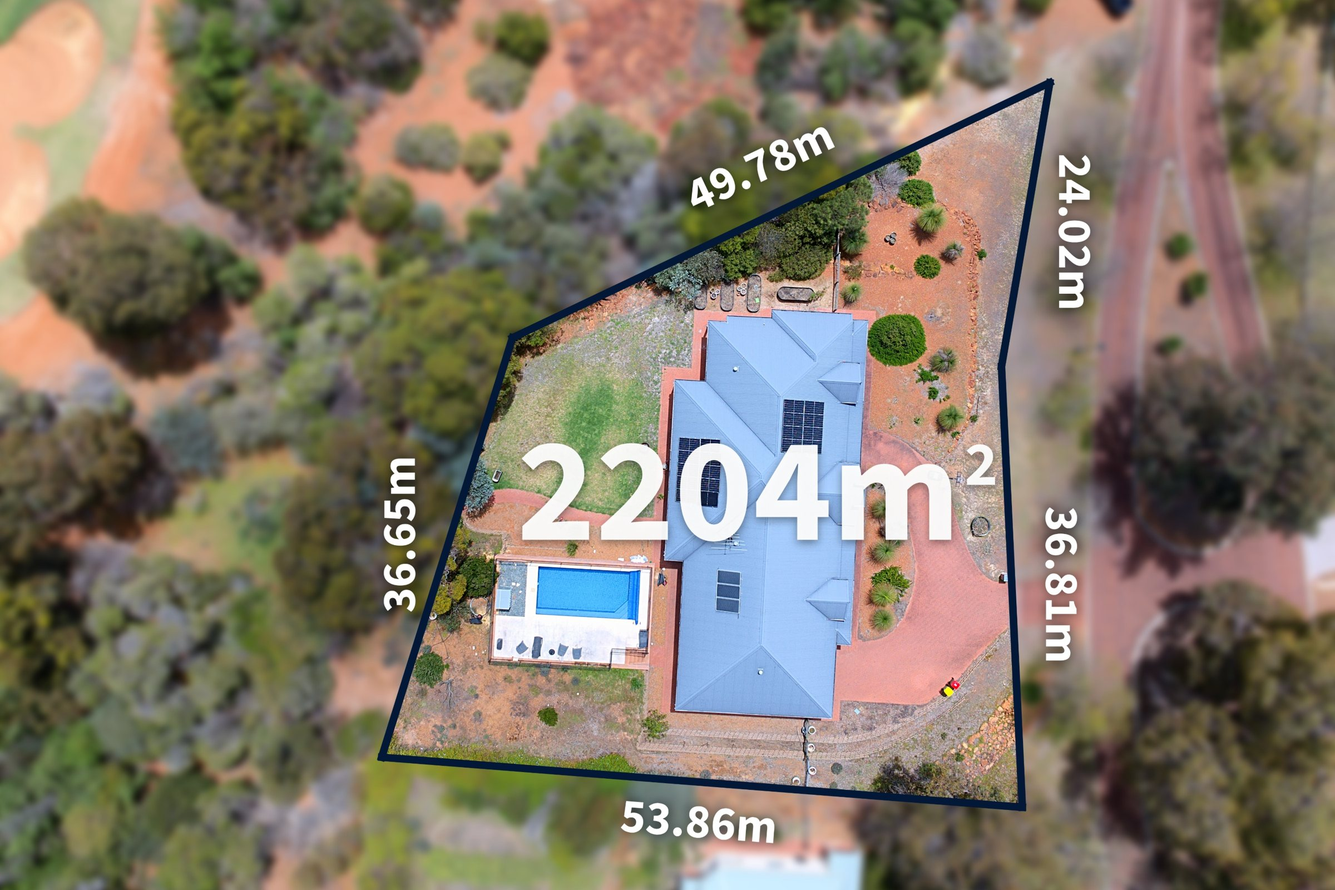
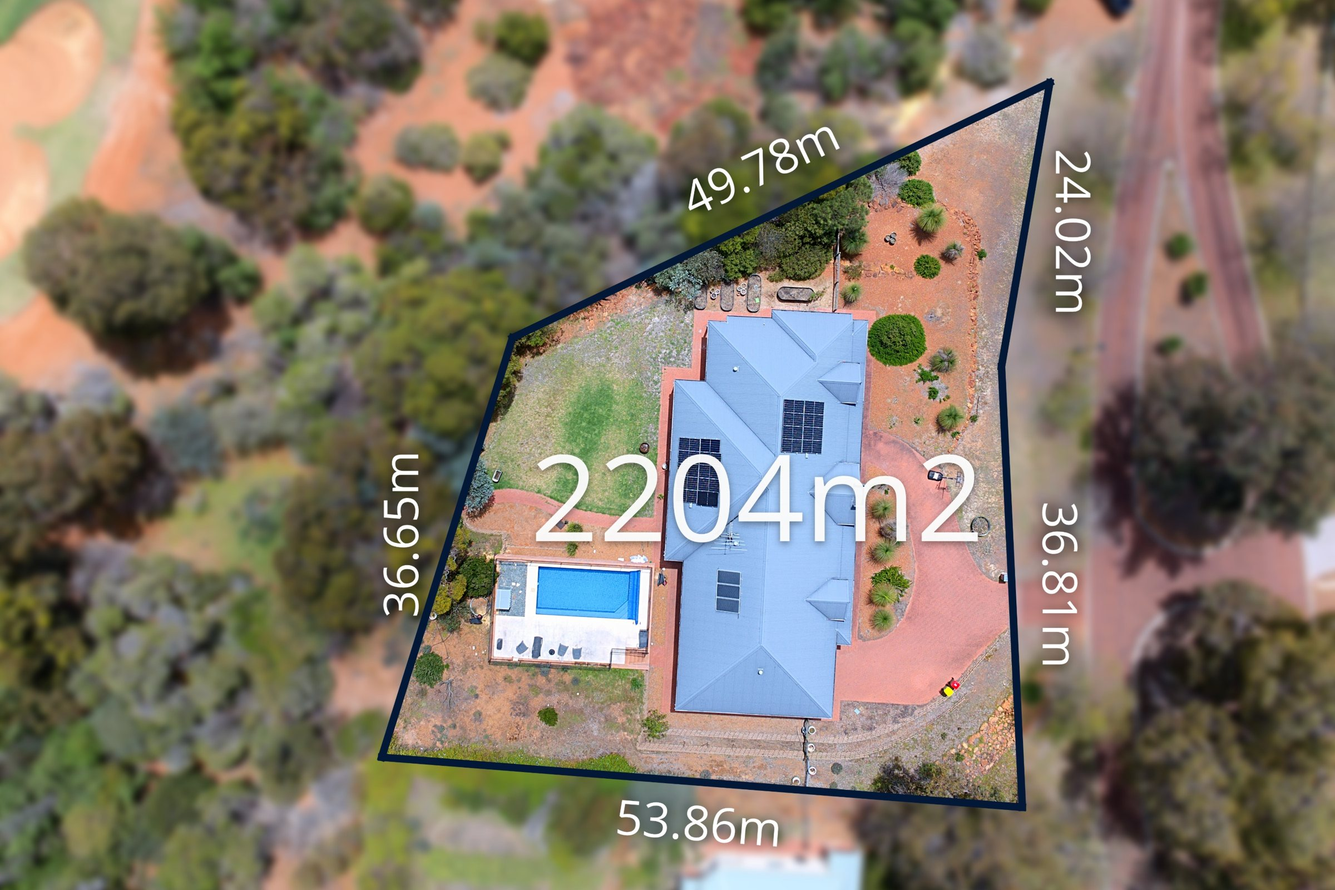
Aerials: lot size matches 560m2 reference (regular Open Sans, full-size 2)
Claude-Session: https://claude.ai/code/session_01A5qGg2LnJXxgSHoMQFvEEG

diff --git a/pins/index.html b/pins/index.html
@@ -8,7 +8,7 @@
 <meta name="claude:viewport-fit-sides" content="cover">
 <link rel="preconnect" href="https://fonts.googleapis.com">
 <link rel="preconnect" href="https://fonts.gstatic.com" crossorigin>
-<link rel="stylesheet" href="https://fonts.googleapis.com/css2?family=Archivo:wght@500;700;800&family=IBM+Plex+Mono:wght@500&family=IBM+Plex+Sans:wght@400;500;600&family=Source+Sans+3:wght@300;400;700&display=swap">
+<link rel="stylesheet" href="https://fonts.googleapis.com/css2?family=Archivo:wght@500;700;800&family=IBM+Plex+Mono:wght@500&family=IBM+Plex+Sans:wght@400;500;600&family=Open+Sans:wght@400&family=Source+Sans+3:wght@300;400;700&display=swap">
 <script src="https://cdnjs.cloudflare.com/ajax/libs/jszip/3.10.1/jszip.min.js"></script>
 <style>
 /* Layout: editor shell — tool rail | photo stage | inspector, photo strip along the bottom. Single dark look, like a darkroom. */
@@ -1066,15 +1066,16 @@ function tidySides(p){
 // ================= scene =================
 function hexA(hex, a){ const n=parseInt(hex.slice(1),16); return `rgba(${n>>16&255},${n>>8&255},${n&255},${a})`; }
 // area label: "560m2" / "560m²" → big "560m" + small raised "2"
-function areaSplit(txt){ const m = String(txt||"").match(/^(.*?m)(2|²)$/); return m ? [m[1], "2"] : [String(txt||" "), ""]; }
-function areaWidth(c, txt, size, weight){ const [a,b] = areaSplit(txt); c.font = `${weight} ${size}px "Source Sans 3", "Segoe UI", sans-serif`; let w = c.measureText(a).width;
-  if (b){ c.font = `${weight} ${size*0.42}px "Source Sans 3", "Segoe UI", sans-serif`; w += size*0.03 + c.measureText(b).width; } return w; }
+const AREA_FONT = '"Open Sans", "Segoe UI", sans-serif';   // matches Jason's 560m2 reference
+function areaSplit(txt, sup){ if (!sup) return [String(txt||" "), ""]; const m = String(txt||"").match(/^(.*?m)(2|²)$/); return m ? [m[1], "2"] : [String(txt||" "), ""]; }
+function areaWidth(c, txt, size, weight, sup){ const [a,b] = areaSplit(txt, sup); c.font = `${weight} ${size}px ${AREA_FONT}`; let w = c.measureText(a).width;
+  if (b){ c.font = `${weight} ${size*0.42}px ${AREA_FONT}`; w += size*0.03 + c.measureText(b).width; } return w; }
 function textMetrics(c, t, p){
   const s = p.w/3000, size = t.size*s;
-  const weight = t.style==="area" ? (t.weight||700) : t.bold ? 700 : 400;
-  c.font = `${weight} ${size}px "Source Sans 3", "Segoe UI", sans-serif`;
+  const weight = t.style==="area" ? (t.weight||400) : t.bold ? 700 : 400;
+  c.font = `${weight} ${size}px ${t.style==="area" ? AREA_FONT : '"Source Sans 3", "Segoe UI", sans-serif'}`;
   const lines = String(t.text||" ").split("\n"), lh = size*1.12;
-  let w=0; lines.forEach(l=>{ w=Math.max(w, t.style==="area" ? areaWidth(c,l,size,weight) : c.measureText(l).width); }); c.font = `${weight} ${size}px "Source Sans 3", "Segoe UI", sans-serif`;
+  let w=0; lines.forEach(l=>{ w=Math.max(w, t.style==="area" ? areaWidth(c,l,size,weight,t.sup) : c.measureText(l).width); }); c.font = `${weight} ${size}px ${t.style==="area" ? AREA_FONT : '"Source Sans 3", "Segoe UI", sans-serif'}`;
   const padX = t.style==="pill" ? size*.55 : 0, padY = t.style==="pill" ? size*.3 : 0;
   const bw = w+padX*2, bh = lines.length*lh + padY*2;
   return { size, weight, lines, lh, bw, bh, x:t.x-bw/2, y:t.y-bh/2, padX, padY };
@@ -1145,14 +1146,14 @@ function drawScene(c, p, opt){
     const m = textMetrics(c, t, p);
     c.save(); c.textBaseline="middle"; c.textAlign="center";
     if (t.style==="pill"){ c.fillStyle=t.bg; roundRect(c, m.x, m.y, m.bw, m.bh, m.size*.18); c.fill(); }
-    c.font = `${m.weight} ${m.size}px "Source Sans 3", "Segoe UI", sans-serif`;
+    c.font = `${m.weight} ${m.size}px ${t.style==="area" ? AREA_FONT : '"Source Sans 3", "Segoe UI", sans-serif'}`;
     m.lines.forEach((l,i)=>{
       const ly = m.y + m.padY + m.lh*(i+.5);
       if (t.style!=="pill"){ c.shadowColor="rgba(0,0,0,.45)"; c.shadowBlur=m.size*(t.style==="area"?.06:.18); c.shadowOffsetY=m.size*.02; }
       c.globalAlpha = t.style==="area" ? 0.95 : 1;
       c.fillStyle=t.color;
-      if (t.style==="area"){ const [a,b] = areaSplit(l); if (b){ const W = areaWidth(c,l,m.size,m.weight); c.textAlign="left"; c.font=`${m.weight} ${m.size}px "Source Sans 3", "Segoe UI", sans-serif`; const wa=c.measureText(a).width, x0=t.x-W/2; c.fillText(a, x0, ly);
-          c.font=`${m.weight} ${m.size*0.42}px "Source Sans 3", "Segoe UI", sans-serif`; c.fillText(b, x0+wa+m.size*0.03, ly - m.size*0.24); c.textAlign="center"; } else c.fillText(l, t.x, ly); }
+      if (t.style==="area"){ const [a,b] = areaSplit(l, t.sup); if (b){ const W = areaWidth(c,l,m.size,m.weight,true); c.textAlign="left"; c.font=`${m.weight} ${m.size}px ${AREA_FONT}`; const wa=c.measureText(a).width, x0=t.x-W/2; c.fillText(a, x0, ly);
+          c.font=`${m.weight} ${m.size*0.42}px ${AREA_FONT}`; c.fillText(b, x0+wa+m.size*0.03, ly - m.size*0.24); c.textAlign="center"; } else c.fillText(l, t.x, ly); }
       else c.fillText(l, t.x, ly);
     });
     c.restore();
@@ -1168,7 +1169,7 @@ function drawScene(c, p, opt){
 function fitAreaText(c, p, t, sh){
   const pts = sh.pts; let x0=Infinity,y0=Infinity,x1=-Infinity,y1=-Infinity; pts.forEach(q=>{x0=Math.min(x0,q[0]);x1=Math.max(x1,q[0]);y0=Math.min(y0,q[1]);y1=Math.max(y1,q[1]);});
   const s = p.w/3000; const bw = x1-x0, bh = y1-y0;
-  const w100 = areaWidth(c, t.text||" ", 100, t.weight||700) || 1;
+  const w100 = areaWidth(c, t.text||" ", 100, t.weight||400, t.sup) || 1;
   const byW = (t.fitW||0.5)*bw/w100*100, byH = (t.fitH||0.55)*bh;
   t.size = Math.max(20, Math.min(byW, byH)/s);
   if (!t.moved){ const ct = centroid(pts); t.x = ct[0]; t.y = ct[1]; }
@@ -1187,7 +1188,7 @@ function drawEdgeLengths(c, p, sh, s){
     }
     const off = fs*0.85 + sh.width*s*1.5;
     c.save(); c.translate(mx + nx*off, my + ny*off); c.rotate(ang);
-    c.font = `${sh.lensWeight||400} ${fs}px "Source Sans 3", sans-serif`; c.textAlign="center"; c.textBaseline="middle";
+    c.font = `${sh.lensWeight||400} ${fs}px ${AREA_FONT}`; c.textAlign="center"; c.textBaseline="middle";
     c.shadowColor="rgba(0,0,0,.7)"; c.shadowBlur=fs*.25; c.fillStyle="#fff"; c.fillText(txt, 0, 0); c.restore();
   });
 }
@@ -1693,7 +1694,7 @@ function shapeSection(p, sh){
     const v = ev.target.value.replace(/m²|m2|sqm/ig,"").trim(); commit();
     let t = p.texts.find(x=>x.link===sh.id);
     if (!v){ if (t) p.texts = p.texts.filter(x=>x!==t); }
-    else { if (!t){ t = { id:nid(), link:sh.id, style:"area", color:"#ffffff", size:200, x:0, y:0, autoSize:true }; p.texts.push(t); } t.lot = v; t.text = `${v}m²`; }
+    else { if (!t){ t = { id:nid(), link:sh.id, style:"area", color:"#ffffff", size:200, x:0, y:0, autoSize:true }; p.texts.push(t); } t.lot = v; t.text = `${v}m2`; }
     refreshBoundaryTab(); requestDraw();
   };
   s.appendChild(ar);
@@ -2177,8 +2178,8 @@ window.__bae = { project:()=>projectJSON(), setAdj:(o)=>{ const p=P(); if(!p) re
     let x0=1e9,y0=1e9,x1=-1e9,y1=-1e9; pts.forEach(q=>{ x0=Math.min(x0,q[0]); x1=Math.max(x1,q[0]); y0=Math.min(y0,q[1]); y1=Math.max(y1,q[1]); });
     const bw=x1-x0, bh=y1-y0; let cw=Math.max(bw/0.6, bh*1.5/0.56); cw=Math.min(cw, p.w, p.h*1.5); cw=Math.max(cw, Math.min(p.w, p.h*1.5)*0.3); const chh=cw/1.5;
     let cx=(x0+x1)/2-cw/2, cy=(y0+y1)/2-chh/2; cx=Math.max(0,Math.min(p.w-cw,cx)); cy=Math.max(0,Math.min(p.h-chh,cy)); const zf=p.w/cw;
-    const col = prefs.agency==="grey-s" ? "#FFFFFF" : shadeHex(agency().color, 0.75); const sh={ id:nid(), type:"poly", pts, color:col, width:17/(3*zf), dashed:new Array(pts.length).fill(false), lens:lens.slice(0,pts.length), showLens:true, lensScale:1.5*72/(62*zf), lensWeight:wt>=700?600:400 }; p.shapes.push(sh); p.outside='blur'; p.blurAmt=45; p._blur=null; p.pins.length=0;
-    if (area){ p.texts.push({ id:nid(), link:sh.id, style:"area", color:"#ffffff", size:200, x:0, y:0, autoSize:true, lot:area, text:area+"m2", weight:wt||700, fitW:0.72, fitH:0.55 }); }
+    const col = prefs.agency==="grey-s" ? "#FFFFFF" : shadeHex(agency().color, 0.75); const sh={ id:nid(), type:"poly", pts, color:col, width:17/(3*zf), dashed:new Array(pts.length).fill(false), lens:lens.slice(0,pts.length), showLens:true, lensScale:1.5*72/(62*zf), lensWeight:400 }; p.shapes.push(sh); p.outside='blur'; p.blurAmt=45; p._blur=null; p.pins.length=0;
+    if (area){ p.texts.push({ id:nid(), link:sh.id, style:"area", color:"#ffffff", size:200, x:0, y:0, autoSize:true, lot:area, text:area+"m2", weight:wt||400, fitW:0.68, fitH:0.55 }); }
     refreshAll(); return { crop:[cx,cy,cw,chh], w:p.w, h:p.h, snap:window.__lotSnap }; }, imgToScreen:(x,y)=>{ const r=cv.getBoundingClientRect(); return [r.left + x*view.s+view.tx, r.top + y*view.s+view.ty]; }, photo:()=>{ const p=P(); return p && { w:p.w, h:p.h, cam:p.cam, shapes:p.shapes.map(s=>s.pts.map(q=>q.map(Math.round))), snap:window.__lotSnap||null, horizon:p.horizon, anchors:p.anchors.length, pins:p.pins.map(q=>({ name:q.name, ex:Math.round(q.ex), ey:Math.round(q.ey), side:q.side, flip:!!q.flip, lift:Math.round(q.lift||0), rect:pinRect(p,q).map(Math.round), house:!!q.house, clash:!!q.clash })) }; } };
 
 // ---- Previous days: open any published job (original photos + saved edits + map) in one click
